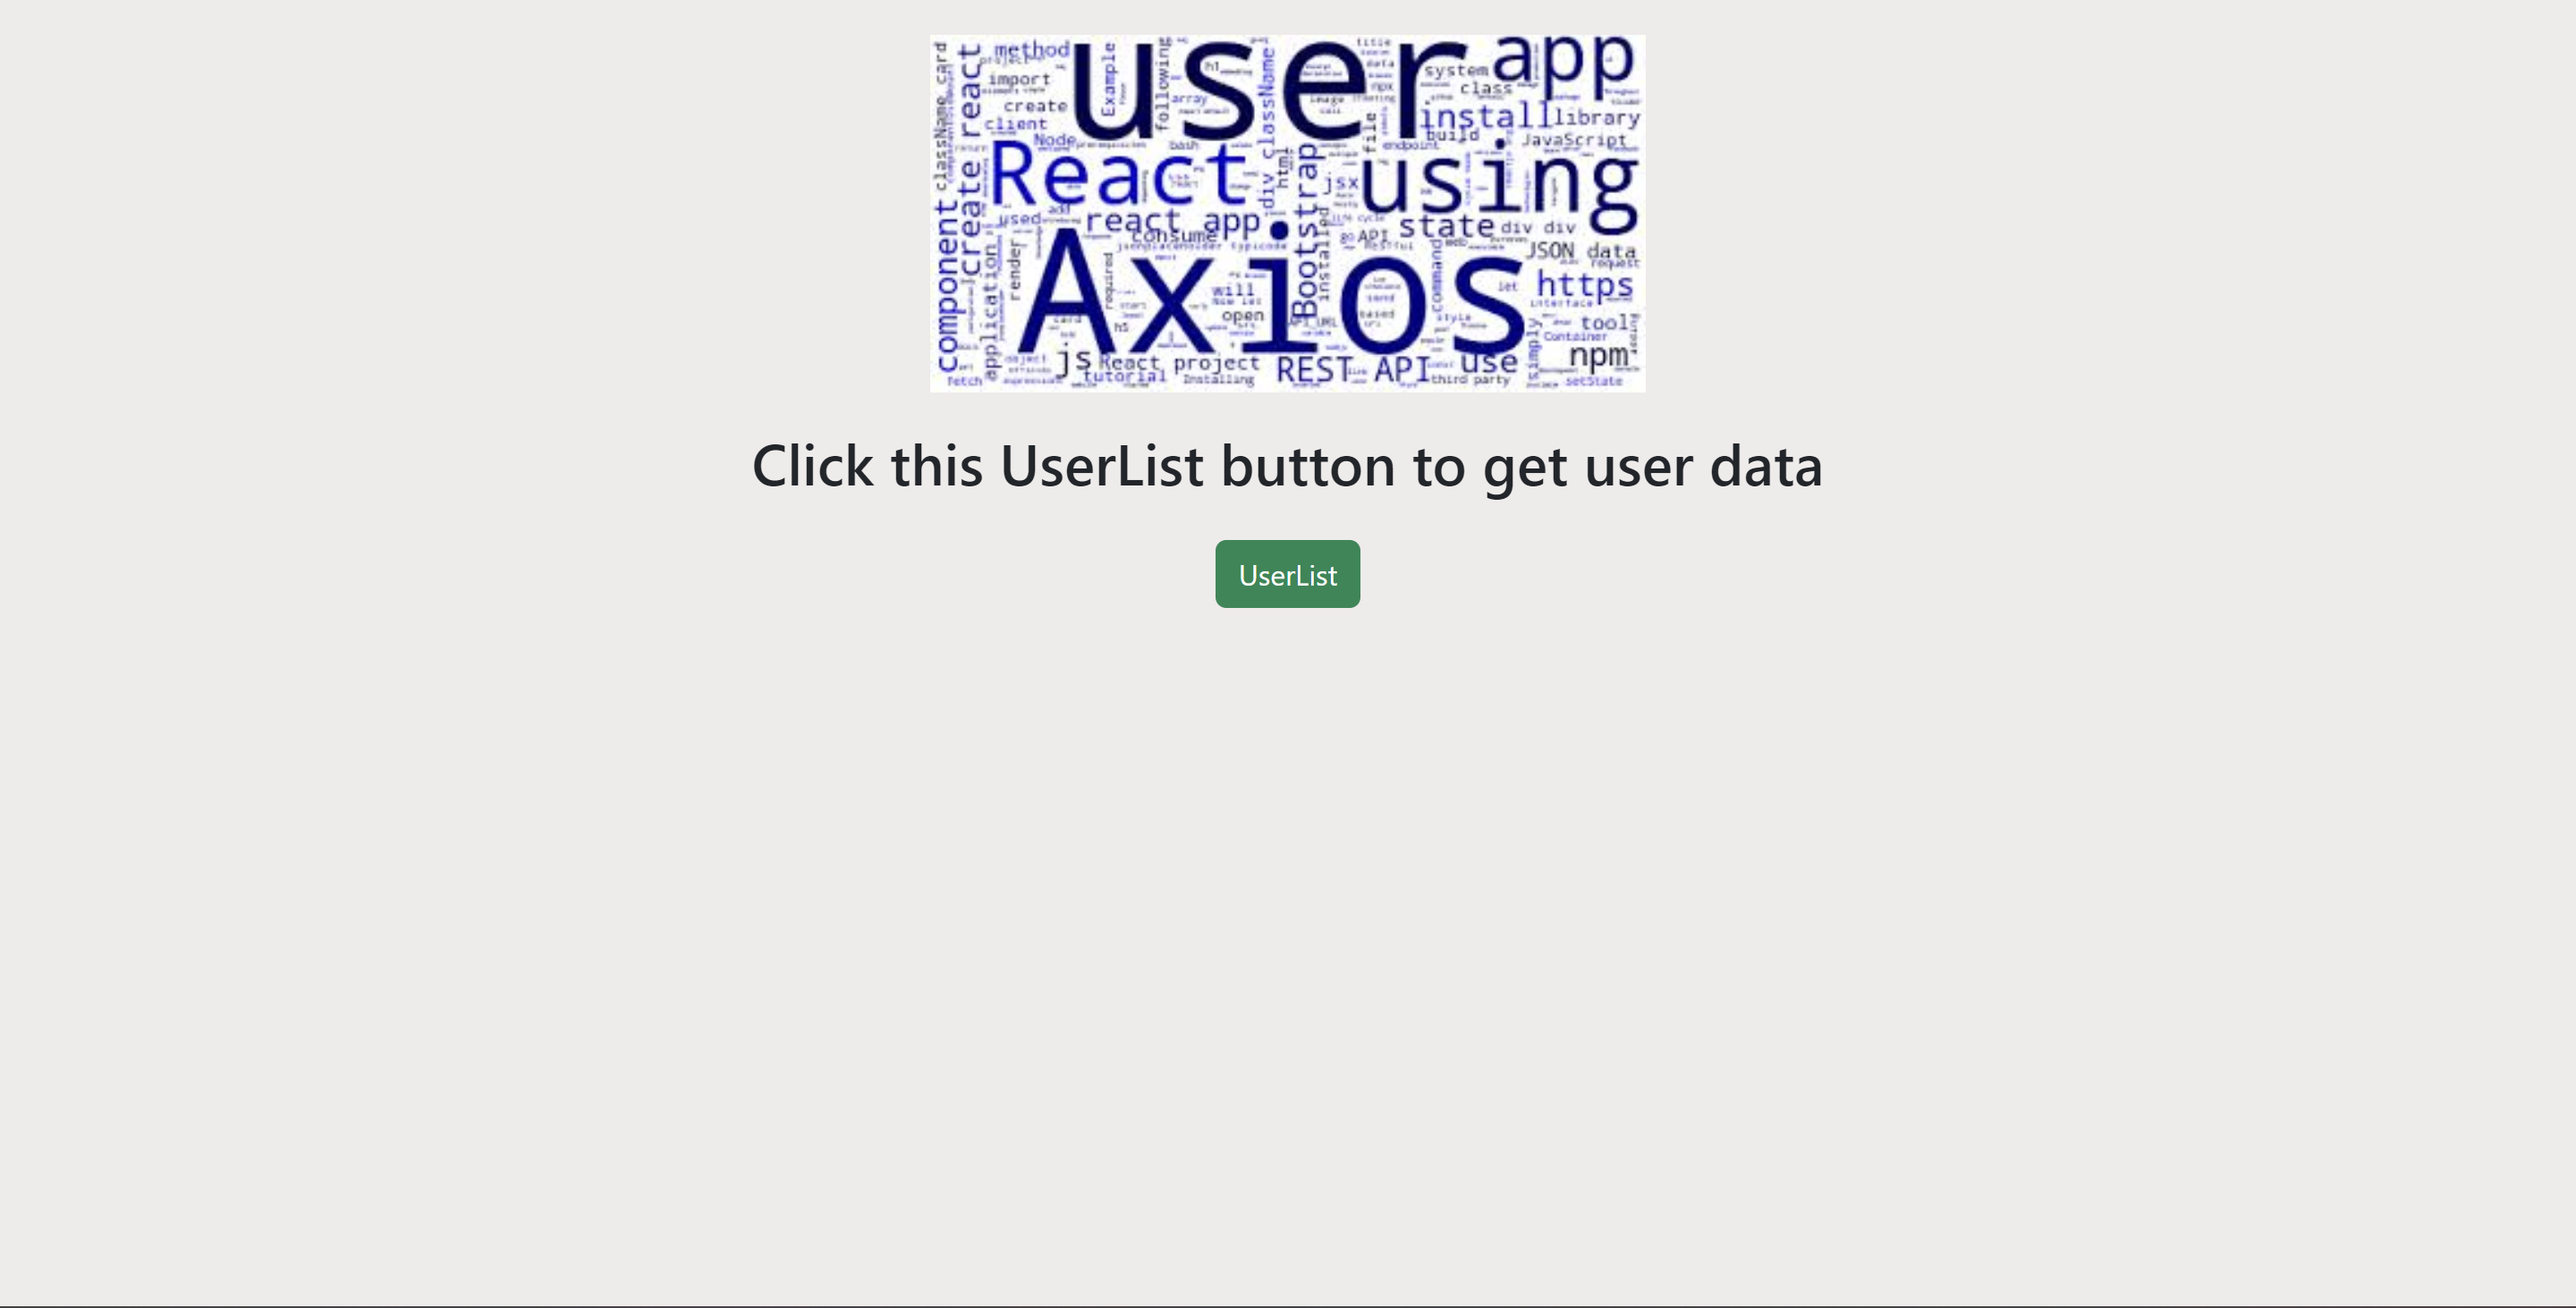
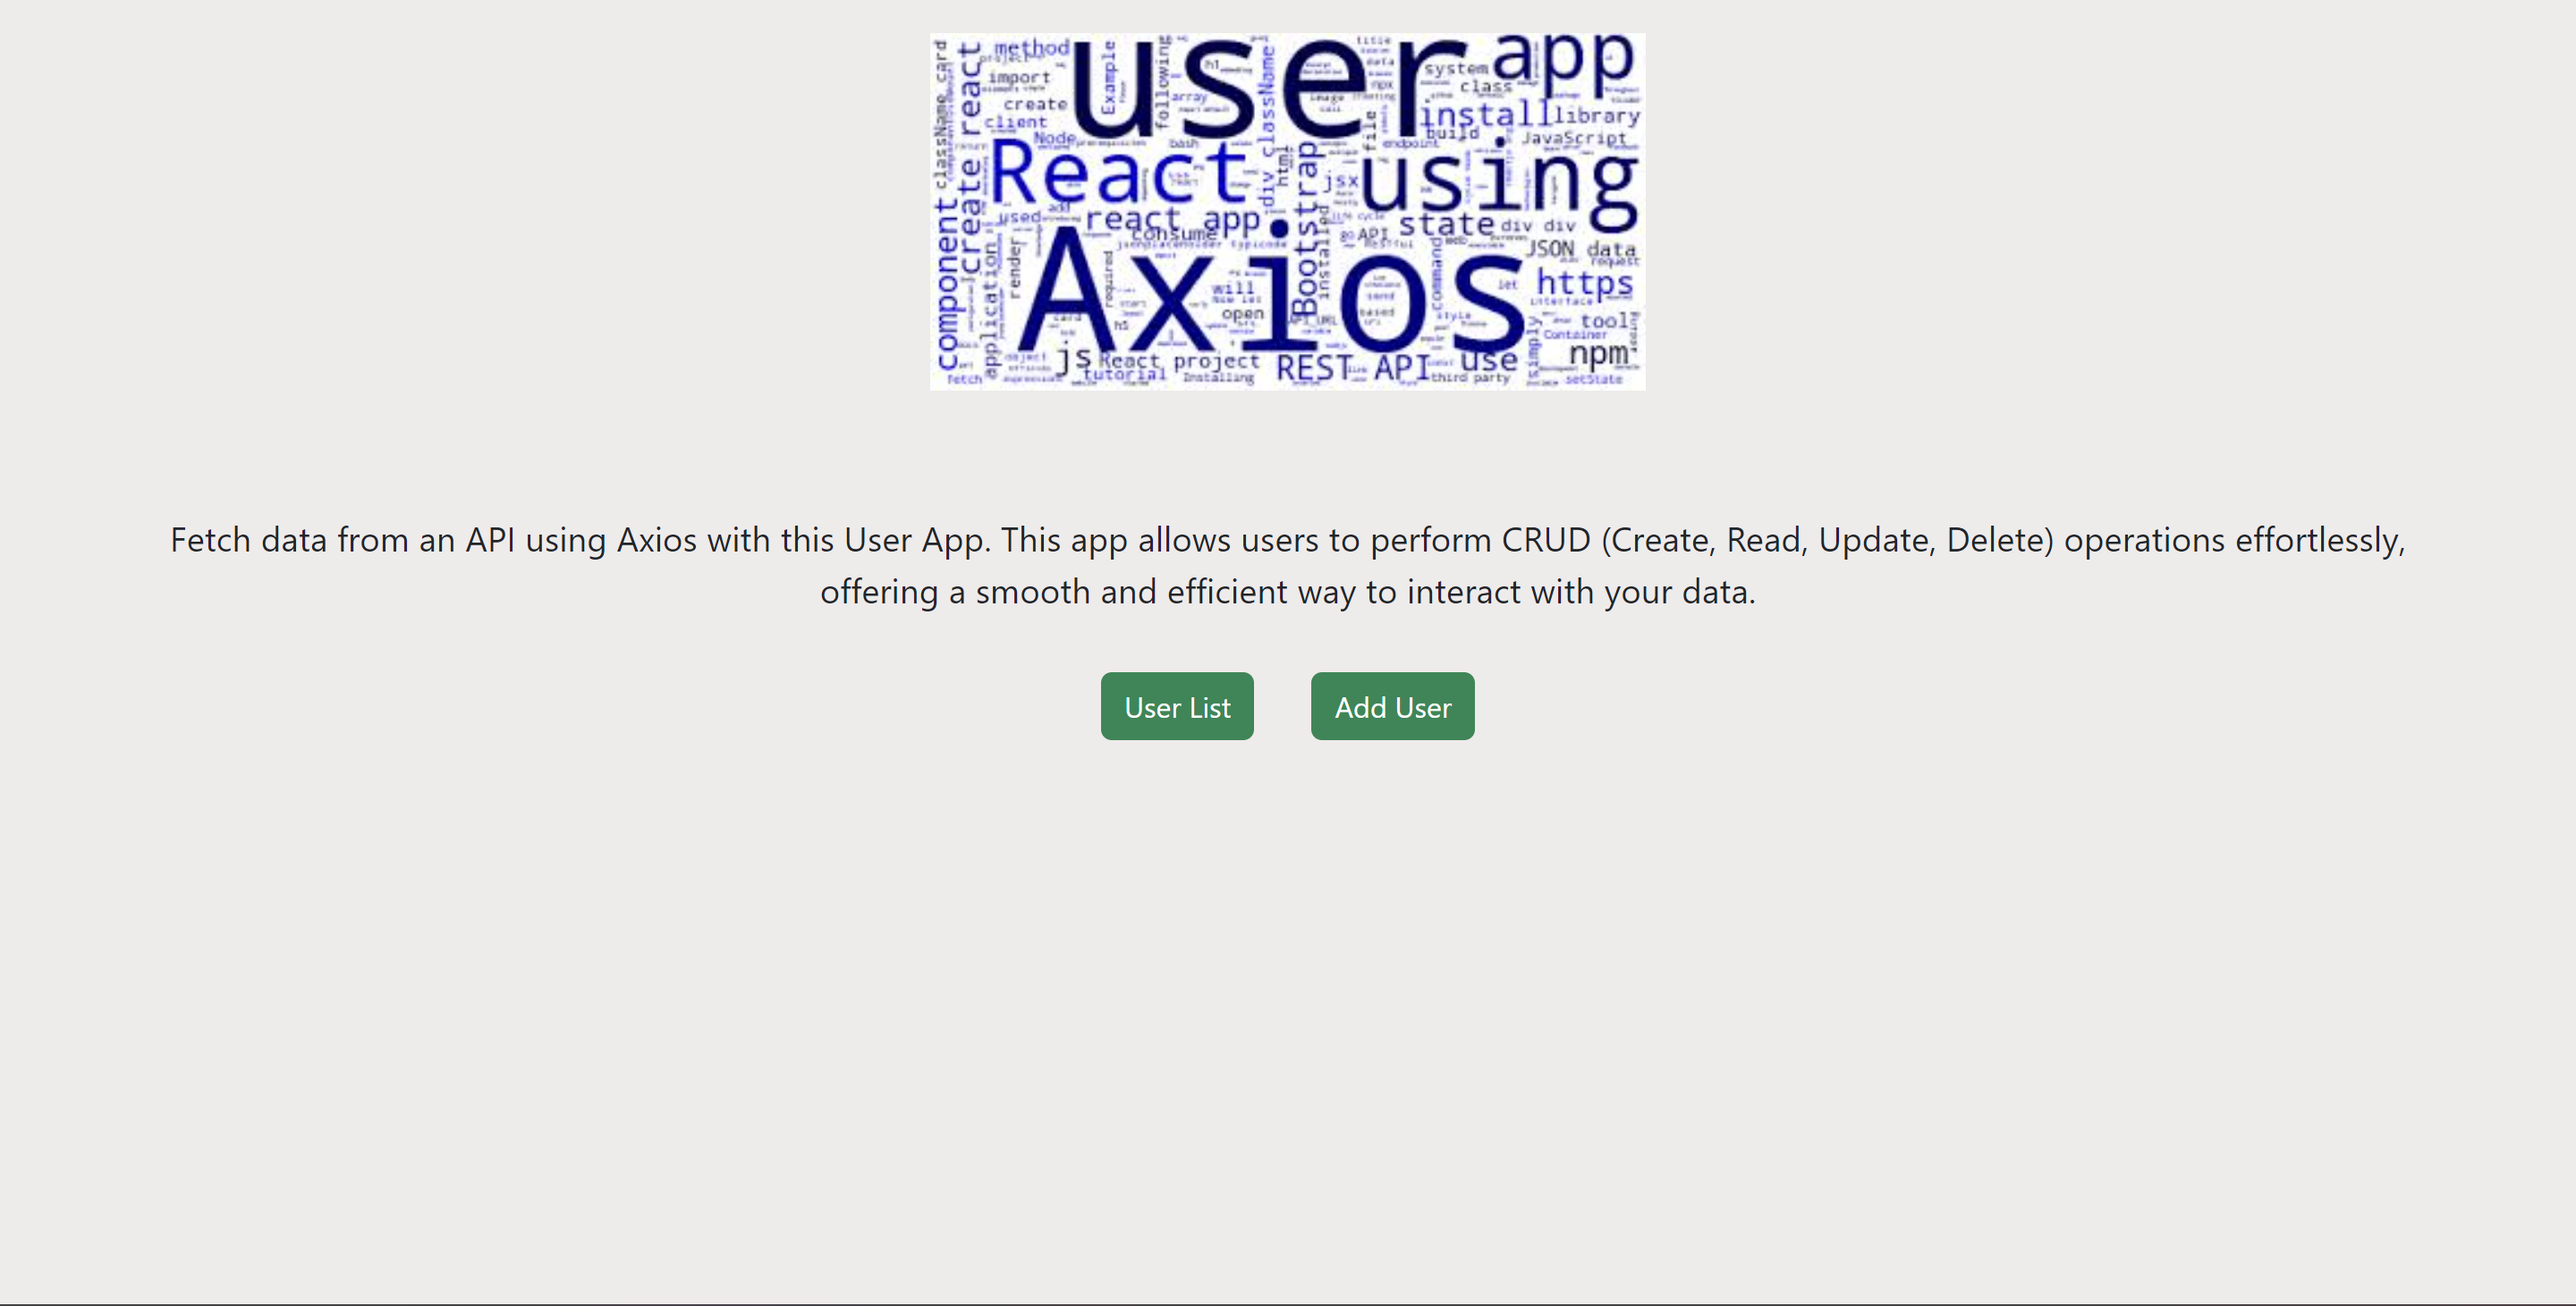
updated

diff --git a/src/components/Projects.jsx b/src/components/Projects.jsx
@@ -2,12 +2,12 @@ import React from 'react'
 import '../css/Projects.css'
 import SMA from '../Assets/Projects/Social Media App.png'
 import AMA from '../Assets/Projects/Assign Mentor App.png'
-import URL from '../Assets/Projects/URL Shortener App.png'
 import PRF from '../Assets/Projects/Password Reset Flow.png'
 import SC from '../Assets/Projects/Shopping Cart.png'
 import LMS from '../Assets/Projects/Library Management.png'
 import BLOG from '../Assets/Projects/Blog Page using Router.png'
 import USERAPP from '../Assets/Projects/User APP using React Axios.png'
+import REDUX from '../Assets/Projects/Cart page using Redux.png'
 import APIFETCH from '../Assets/Projects/Using fetch API.png'
 import { Link } from 'react-router-dom'
 
@@ -36,14 +36,14 @@ function Projects() {
             NetlifyLink: 'https://dynamic-daffodil-2734f0.netlify.app/'
         },
         {
-            projectName: 'URL Shortener App',
-            image: URL,
-            Description: 'Create short URLs for long links with this URL Shortener App. Simplify link sharing and tracking.(Demo Credential: username:user@123.com, password:Password@123)',
+            projectName: 'User App',
+            image: USERAPP,
+            Description: 'Fetch data from an API using Axios with this User App. Perform CRUD operations to add, edit, delete, and update user information.',
             GitLink: {
-                frontEnd: 'https://github.com/Aswini-mca/urlshortener-frontend',
-                backEnd: 'https://github.com/Aswini-mca/urlshortener-backend'
+                frontEnd: 'https://github.com/Aswini-mca/react-axios-task',
+                backEnd: 'https://github.com/Aswini-mca/user-app-backend'
             },
-            NetlifyLink: 'https://cosmic-pudding-d7eb99.netlify.app/'
+            NetlifyLink: 'https://helpful-gumption-d9fe10.netlify.app/'
         },
         {
             projectName: 'Password Reset Flow',
@@ -86,15 +86,16 @@ function Projects() {
             NetlifyLink: 'https://glowing-twilight-9f2380.netlify.app/'
         },
         {
-            projectName: 'User App',
-            image: USERAPP,
-            Description: 'Fetch data from an API using Axios with this User App. Perform CRUD operations to add, edit, delete, and update user information.',
+            projectName: 'Cart Page using Redux',
+            image: REDUX,
+            Description: 'A simple cart page using redux concept, you can increase the quantity for a favorite products and also decrease the quantity is possible.',
             GitLink: {
-                frontEnd: 'https://github.com/Aswini-mca/react-axios-task',
+                frontEnd: 'https://github.com/Aswini-mca/react-redux-task',
                 backEnd: false
             },
-            NetlifyLink: 'https://guileless-monstera-78ae3c.netlify.app/'
+            NetlifyLink: 'https://courageous-eclair-dfa3f4.netlify.app/'
         },
+        
         {
             projectName: 'API Fetch',
             image: APIFETCH,

diff --git a/src/components/About.jsx b/src/components/About.jsx
@@ -14,7 +14,7 @@ function About() {
           <p>My journey into the world of technology began at Bon Secours College For Women, Thanjavur, where I completed my B.C.A. in 2012 with an outstanding score of 85.
             Notably, I secured the 1st rank in the rank holders exam for BCA, highlighting my commitment to academic excellence.</p>
           <p>Driven by a thirst for knowledge, I undertook a Full Stack Developer course on the MERN stack with GUVI GEEK NETWORK in 2023.</p>
-          <p>My skills includes Html, Css, Javascript, React, NodeJs, Bootstrap, MaterialUi,    Mongodb...</p>
+          <p>My skills includes Html, Css, Javascript, React, NodeJs, ExpressJs, Bootstrap, MaterialUi,    Mongodb...</p>
           <p>Apart from coding I like to hear Music, drawing and Art work.</p>
           <p>I Know English, Tamil, and Sowrashtra languages.</p>
           <p>I am now eagerly seeking opportunities to apply my knowledge and skills in a challenging and collaborative environment. Let's build something incredible together!</p>

diff --git a/src/components/Home.jsx b/src/components/Home.jsx
@@ -7,7 +7,7 @@ export function Home() {
         <div>
             <div className='p-5'>
                 <div className='home-container mt-5'>
-                    <Link className='no-hover' to='https://docs.google.com/document/d/1XxEViWTNPpqDBokn0Ad9zYmRWeO4hHY1/edit?usp=sharing&ouid=112232040554459516637&rtpof=true&sd=true'
+                    <Link className='no-hover' to='https://drive.google.com/file/d/1GChDerLFUUYUAhEqFlnmbP8ari-xac8Y/view?usp=sharing'
                         target='_blank' title={'Resume ⬇'} rel='noreferrer'><img id='home-img' src={myPic} alt='...' /></Link>
                     <div className='mt-5 text-center'>
                         <h1 className='p-3 head'>Hello, I Am Aswini</h1>
